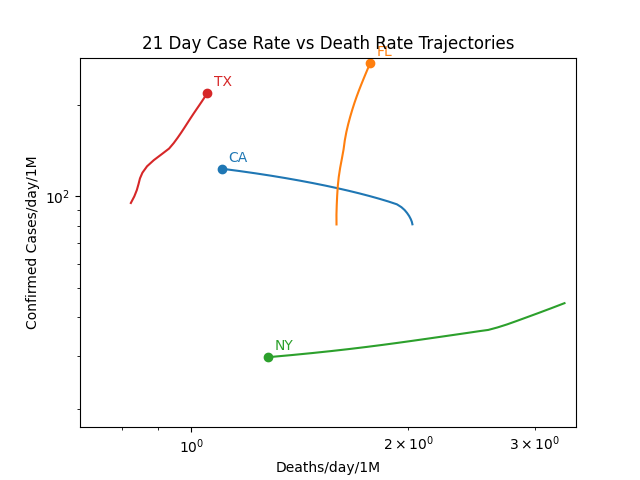
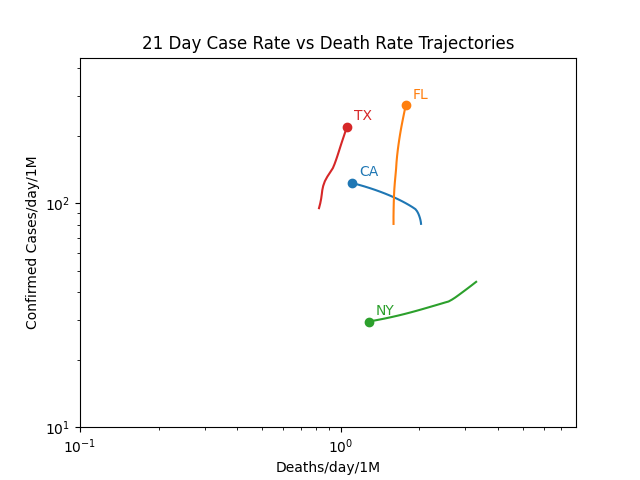
daily update

diff --git a/covid/Analysis4.py b/covid/Analysis4.py
@@ -256,7 +256,7 @@ class Analysis():
                     data[one] = (deaths[-22:], cases[-22:]) # [-22,-15,-8,-1]
         return data
             
-    def plotAllStatesRates(self, path, data, xmin=1e-1, ymin=1e1 ):            
+    def plotAllStatesRates(self, path, data, xmin=1e-1, xmax=None, ymin=1e1, ymax=None ):            
         two = dict(map(reversed, states2.items()))
         fig, ax1 = plt.subplots()
         ax1.set_title('21 Day Case Rate vs Death Rate Trajectories')
@@ -269,14 +269,15 @@ class Analysis():
             ax1.scatter(xy[0][-1], xy[1][-1], color=color)
             ax1.annotate( two[one], xy=(xy[0][-1], xy[1][-1]), color=color, xycoords='data',
                     xytext=(5,5), textcoords='offset points')
-        ax1.set_xlim(xmin, None)
-        ax1.set_ylim(ymin, None)
+        ax1.set_xlim(xmin, xmax)
+        ax1.set_ylim(ymin, ymax)
 
         ax1.set_yscale('log')
         ax1.set_xscale('log')
         plt.draw()
         fig.savefig(path)
-        plt.close()        
+        plt.close()      
+        return [ax1.get_xlim()[1], ax1.get_ylim()[1]]  
 
     def plotStateSet( self, what, path, which, states, population):
 #         fig = plt.figure(constrained_layout=False, figsize=(8,9))
@@ -475,8 +476,8 @@ class Analysis():
         for one in ['California', 'Florida', 'New York', 'Texas']:
             four[one] = data[one]
         # TODO four limits from all limits
-        self.plotAllStatesRates(outPath+"/analysis/FourDailyCasesVsDeaths.png", four, xmin=None, ymin=None )
-        self.plotAllStatesRates(outPath+"/analysis/AllDailyCasesVsDeaths.png", data )
+        xymax = self.plotAllStatesRates(outPath+"/analysis/AllDailyCasesVsDeaths.png", data )
+        self.plotAllStatesRates(outPath+"/analysis/FourDailyCasesVsDeaths.png", four, xmax=xymax[0], ymax=xymax[1] )
         
         stateSet = ('California','Florida','New York','Texas')
         self.plotStateSet('Deaths', outPath+"/analysis/4Largest%s%s.png", stateSet, f, population)
@@ -615,7 +616,7 @@ if __name__ == '__main__':
     for state in analysis.countriesLinks:
         countriesContent += state
     fields = dict();
-    tag = 'at %s for data as of %s' % (datetime.date(datetime.now()), analysis.asOf)
+    tag = 'at %s for data as of %s' % (datetime.date(datetime.now()), analysis.asOf.date())
     fields.update({'date': tag})
     fields.update({'top10StatesTable': analysis.top10StatesTable})
     fields.update({'top10CountriesTable': analysis.top10CountriesTable})

diff --git a/analysis/ANALYSIS.md b/analysis/ANALYSIS.md
@@ -1,5 +1,5 @@
 # State and Country COVID-19 Analysis #
-## Updated: at 2020-07-01 for data as of 2020-06-30 00:00:00 ##
+## Updated: at 2020-07-01 for data as of 2020-06-30 ##
 
 Uses the total death counts from the daily report files from the JHU CSSE COVID-19 GITHUB repository: https://github.com/CSSEGISandData/COVID-19.git.
 
